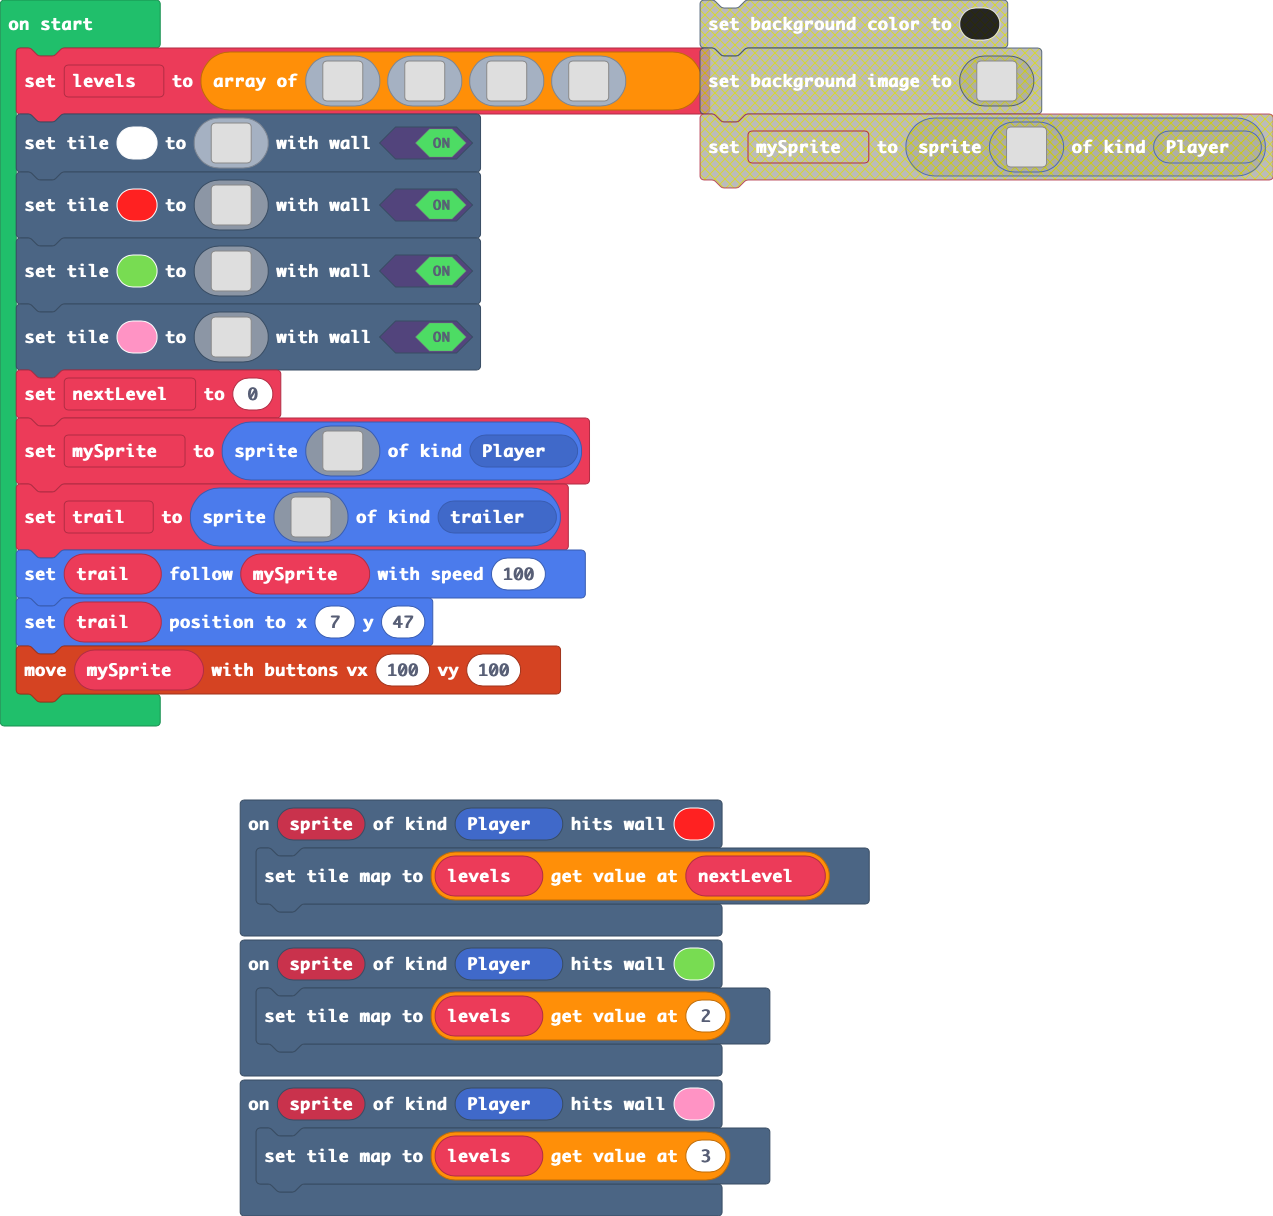
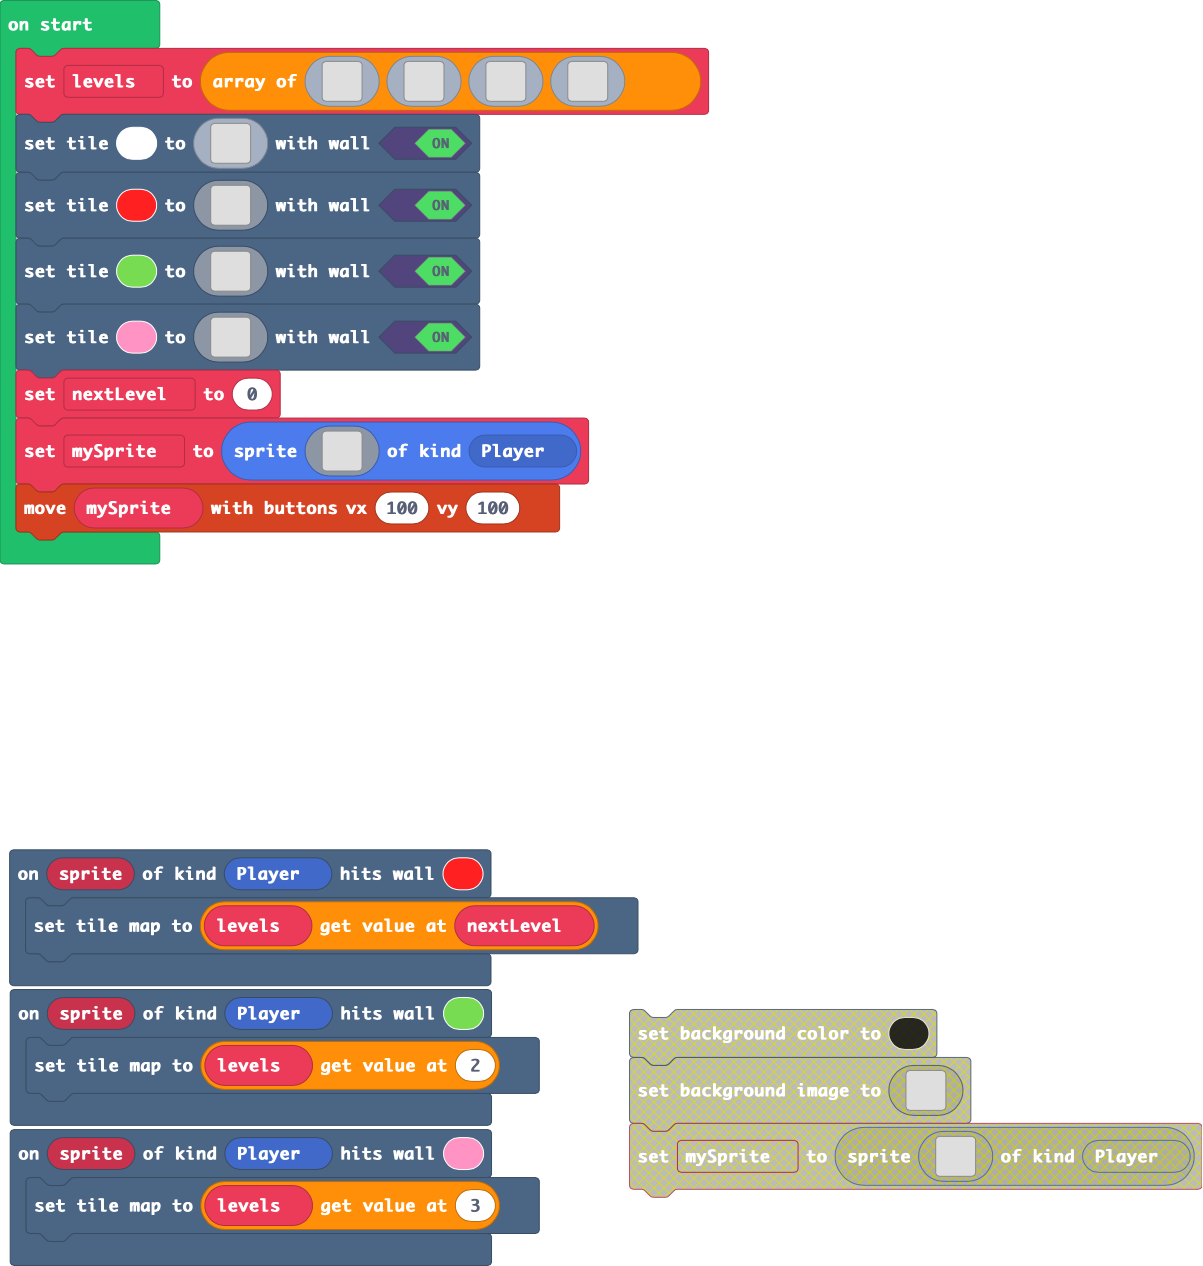
Update main.blocks, main.ts

diff --git a/main.ts b/main.ts
@@ -172,24 +172,4 @@ let mySprite = sprites.create(img`
     f f f f f f f f f f f f f f f f 
     f f f f f f f f f f f f f f f f 
     `, SpriteKind.Player)
-let trail = sprites.create(img`
-    7 7 7 7 7 7 7 7 7 7 7 7 7 7 7 7 
-    7 7 7 7 7 7 7 7 7 7 7 7 7 7 7 7 
-    7 7 7 7 7 7 7 7 7 7 7 7 7 7 7 7 
-    7 7 7 7 7 7 7 7 7 7 7 7 7 7 7 7 
-    7 7 7 7 7 7 7 7 7 7 7 7 7 7 7 7 
-    7 7 7 7 7 7 7 7 7 7 7 7 7 7 7 7 
-    7 7 7 7 7 7 7 7 7 7 7 7 7 7 7 7 
-    7 7 7 7 7 7 7 7 7 7 7 7 7 7 7 7 
-    7 7 7 7 7 7 7 7 7 7 7 7 7 7 7 7 
-    7 7 7 7 7 7 7 7 7 7 7 7 7 7 7 7 
-    7 7 7 7 7 7 7 7 7 7 7 7 7 7 7 7 
-    7 7 7 7 7 7 7 7 7 7 7 7 7 7 7 7 
-    7 7 7 7 7 7 7 7 7 7 7 7 7 7 7 7 
-    7 7 7 7 7 7 7 7 7 7 7 7 7 7 7 7 
-    7 7 7 7 7 7 7 7 7 7 7 7 7 7 7 7 
-    7 7 7 7 7 7 7 7 7 7 7 7 7 7 7 7 
-    `, SpriteKind.trailer)
-trail.follow(mySprite, 100)
-trail.setPosition(7, 47)
 controller.moveSprite(mySprite, 100, 100)
